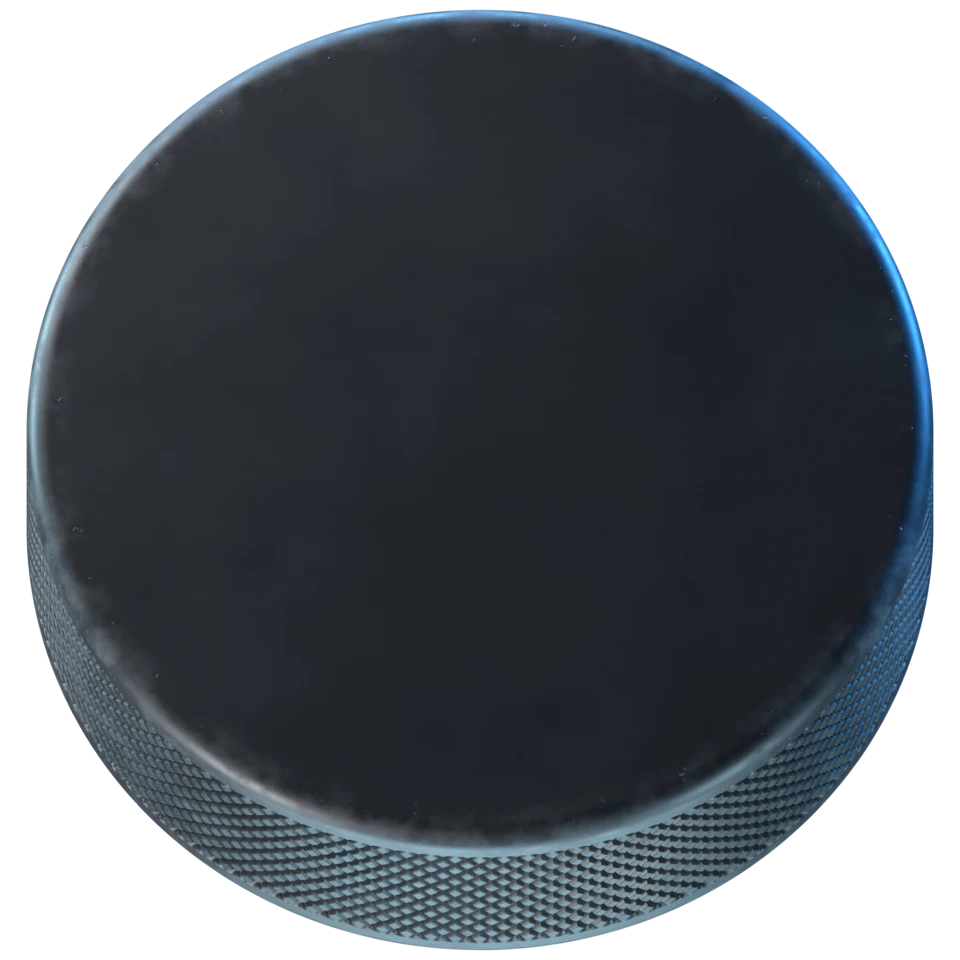
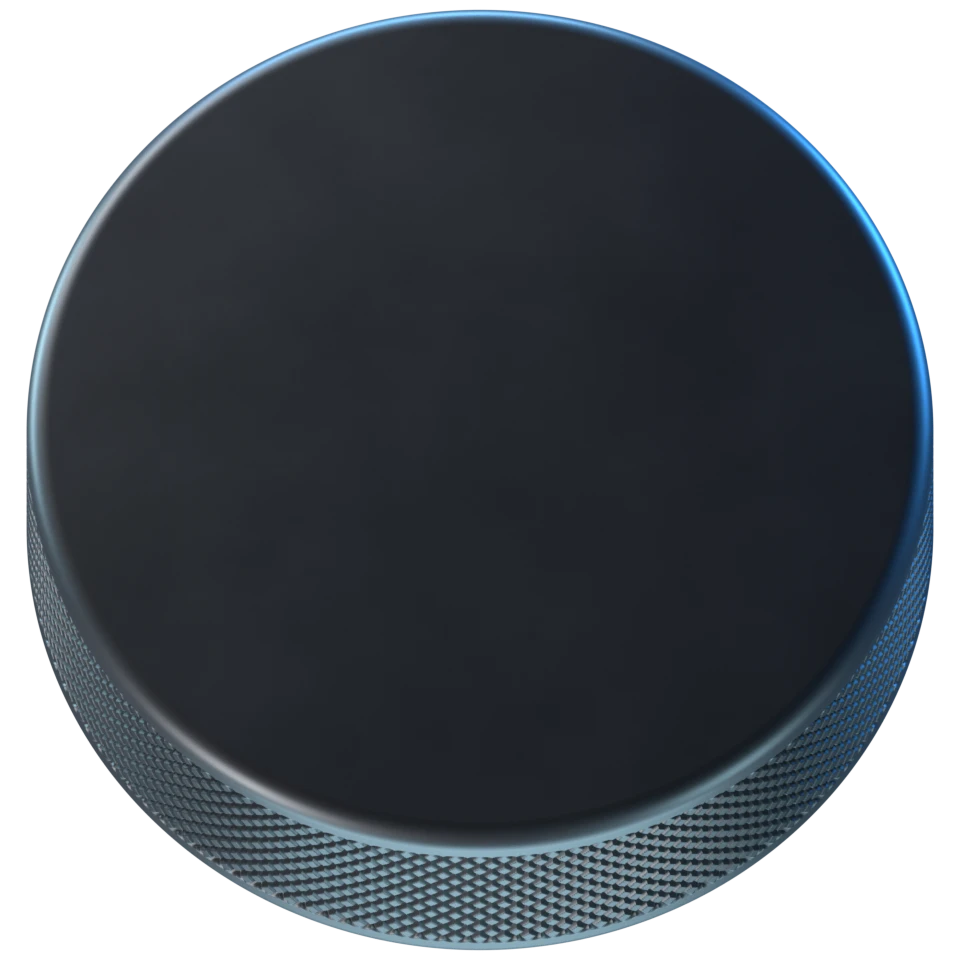
Шайба крутится целиком: бортик вращается вместе с верхом
Раньше вращалась только картинка с логотипом, а бортик просто ехал.
Теперь script.js перерисовывает корпус на холсте: рифление сдвигается
по кругу, поверх прокручиваются потёртости бортика (puck-side.webp),
при быстром вращении всё смазывается. Угол берётся у картинки с логотипом.
Потёртости убраны с неподвижного корпуса и со скруглённой кромки.

diff --git a/script.js b/script.js
@@ -20,21 +20,214 @@ nav.querySelectorAll('a').forEach((link) => {
 // При открытии сайта и при каждом нажатии на шайбу запускаем анимацию заново.
 const puckZone = document.querySelector('.puck-zone');
 const puck = document.getElementById('puck');
+let puckSide = null;                    // «художник», который вращает бортик (см. ниже)
 
 function launchPuck() {
   puckZone.classList.remove('is-waiting', 'is-flying');
   void puckZone.offsetWidth;            // «перезагружаем» анимацию, чтобы она сыграла ещё раз
   puckZone.classList.add('is-flying');
+  if (puckSide) puckSide.start();
 }
 
 if (puckZone && puck) {
-  // Шайба сложена из двух картинок. Ждём, пока обе загрузятся (но не дольше 2 секунд),
+  // Шайба сложена из нескольких картинок. Ждём, пока они загрузятся (но не дольше 2 секунд),
   // и только потом запускаем — иначе на медленном интернете шайба «въедет» невидимой.
   puckZone.classList.add('is-waiting');
   const images = Array.from(puck.querySelectorAll('img'));
   const loaded = images.map((img) => (img.decode ? img.decode().catch(() => {}) : Promise.resolve()));
   const tooLong = new Promise((resolve) => setTimeout(resolve, 2000));
-  Promise.race([Promise.all(loaded), tooLong]).then(launchPuck);
+  Promise.race([Promise.all(loaded), tooLong]).then(() => {
+    try { puckSide = setupPuckSide(puckZone, puck); } catch (e) { puckSide = null; }
+    launchPuck();
+  });
 
   puck.addEventListener('click', launchPuck);
+}
+
+// ===== Бортик шайбы тоже вращается =====
+// Корпус шайбы — неподвижная картинка: свет на ней уже «сфотографирован». Но когда шайба
+// крутится, бортик тоже должен ехать по кругу, иначе видно, что вращается только верх.
+// Поэтому корпус перерисовывается на холсте (canvas) много раз в секунду:
+//   1) рифление: бортик режется на узкие вертикальные полоски, и каждая берётся чуть «сбоку» —
+//      так ромбики едут по кругу, а свет остаётся на месте;
+//   2) потёртости: картинка images/puck-side.webp (бортик «в развёртке») прокручивается
+//      по бортику — по этим светлым ссадинам глаз и видит, что шайба вращается целиком.
+// Угол поворота берётся у картинки с логотипом, поэтому верх и бортик крутятся строго вместе.
+function setupPuckSide(zone, button) {
+  const canvas = zone.querySelector('.puck__side');
+  const body = zone.querySelector('.puck__body');
+  const face = zone.querySelector('.puck__marks');
+  const wearImg = zone.querySelector('.puck__side-src');
+  const ctx = canvas && canvas.getContext ? canvas.getContext('2d') : null;
+  if (!ctx || !body || !face) return null;
+
+  // Форма шайбы в долях её радиуса — те же числа, что в tools/make_puck.py
+  const THICKNESS = 2 / 3;              // толщина
+  const BEVEL = 0.05;                   // скругление кромки
+  const KNURLS = 116;                   // сколько ромбиков по окружности
+  const WEAR_STRENGTH = 0.9;            // насколько заметны потёртости (0 — не видны, 1 — яркие)
+
+  // Где на картинке лежит шайба — из тех же чисел, что и в style.css (--face-…)
+  const S = canvas.width;
+  const style = getComputedStyle(zone);
+  const num = (name) => parseFloat(style.getPropertyValue(name));
+  const squash = num('--face-squash');
+  const R = num('--face-size') / 100 * S / 2;            // радиус шайбы в пикселях холста
+  const cx = num('--face-left') / 100 * S + R;           // центр верхней грани
+  const cy = num('--face-top') / 100 * S + R;
+  if (!(R > 0) || !(squash > 0)) return null;
+  const lean = Math.sqrt(1 - squash * squash) * R;       // на сколько пикселей «вниз» уходит высота
+  const bandH = (THICKNESS - 2 * BEVEL) * lean;          // высота бортика на картинке
+  const below = BEVEL * R * 1.3 + 3;                     // запас вниз: нижнее скругление
+  const TURN = 2 * Math.PI;
+  const pitch = TURN / KNURLS;                           // угол одного ромбика
+  const EDGE = 84 * Math.PI / 180;                       // у самых краёв бортик не трогаем
+  const SRC_EDGE = 89 * Math.PI / 180;
+  // Точка бортика под углом phi (0 — прямо перед зрителем): её место на картинке
+  const xOf = (phi) => cx + R * Math.sin(phi);
+  const topOf = (phi) => cy + R * squash * Math.cos(phi) + BEVEL * lean;
+  const wrap = (v, period) => ((v % period) + period) % period;
+
+  // Вертикальные полоски: в середине шире, у краёв уже (там бортик сильнее изгибается)
+  const cols = [];
+  const xEnd = Math.floor(xOf(EDGE));
+  for (let x = Math.ceil(xOf(-EDGE)); x < xEnd;) {
+    const phi = Math.asin((x - cx) / R);
+    const w = Math.min(xEnd - x, Math.max(2, Math.round(8 * Math.cos(phi))));
+    const p1 = Math.asin((x + w - cx) / R);
+    cols.push({ x0: x, x1: x + w, p0: phi, p1: p1, y0: topOf(phi), y1: topOf(p1) });
+    x += w;
+  }
+
+  let wear = null;      // развёртка потёртостей, повторённая дважды — чтобы не думать о стыке
+  let ready = false;
+
+  function prepareWear() {
+    if (wear || !wearImg || !wearImg.naturalWidth) return;
+    ctx.globalCompositeOperation = 'color-dodge';        // режим «осветлить то, что под рисунком»
+    const supported = ctx.globalCompositeOperation === 'color-dodge';
+    ctx.globalCompositeOperation = 'source-over';
+    if (!supported) return;                              // очень старый браузер — просто без потёртостей
+    wear = document.createElement('canvas');
+    wear.width = wearImg.naturalWidth * 2;
+    wear.height = wearImg.naturalHeight;
+    const w = wear.getContext('2d');
+    w.drawImage(wearImg, 0, 0);
+    w.drawImage(wearImg, wearImg.naturalWidth, 0);
+  }
+
+  // Рисует корпус, повёрнутый на angle (в радианах). step — на сколько он повернулся
+  // с прошлого кадра: при быстром вращении рифление смазывается, как в жизни.
+  function draw(angle, step) {
+    if (!ready) return;
+    ctx.setTransform(1, 0, 0, 1, 0, 0);
+    ctx.globalCompositeOperation = 'source-over';
+    ctx.globalAlpha = 1;
+    ctx.clearRect(0, 0, S, S);
+    ctx.drawImage(body, 0, 0, S, S);
+
+    // 1) Рифление. Узор повторяется каждый ромбик, поэтому важен только сдвиг внутри ромбика.
+    const blurRange = Math.min(Math.abs(step), pitch);
+    const samples = blurRange > pitch / 8 ? 4 : 1;
+    for (let k = 0; k < samples; k++) {
+      const shift = wrap(angle - blurRange * k / samples, pitch);
+      if (shift < 1e-4 && k === 0) continue;             // сдвига нет — корпус уже нарисован как надо
+      ctx.globalAlpha = 1 / (k + 1);                     // 1, 1/2, 1/3… — в сумме получается среднее
+      for (let i = 0; i < cols.length; i++) {
+        const c = cols[i];
+        const s0 = Math.min(c.p0 + shift, SRC_EDGE);
+        const s1 = Math.min(c.p1 + shift, SRC_EDGE);
+        const sx = xOf(s0);
+        const sw = xOf(s1) - sx;
+        if (sw < 0.25) continue;
+        const sy0 = topOf(s0);
+        const sy1 = topOf(s1);
+        const a = (c.x1 - c.x0) / sw;
+        const b = ((c.y1 - sy1) - (c.y0 - sy0)) / sw;
+        ctx.setTransform(a, b, 0, 1, c.x0 - a * sx, (c.y0 - sy0) - b * sx);
+        const top = Math.min(sy0, sy1) - 1;
+        const h = Math.abs(sy1 - sy0) + bandH + below + 2;
+        ctx.drawImage(body, sx, top, sw, h, sx, top, sw, h);
+      }
+    }
+
+    // 2) Потёртости: едут по бортику вместе с ним. При быстром вращении рисуем их несколько раз
+    //    бледнее и со сдвигом — получается «смаз», как у настоящего быстрого предмета.
+    if (wear) {
+      const tw = wear.width / 2;
+      const th = wear.height;
+      const perRad = tw / TURN;
+      const passes = Math.max(1, Math.min(6, Math.ceil(Math.abs(step) / 0.012)));
+      ctx.globalAlpha = WEAR_STRENGTH / passes;
+      ctx.globalCompositeOperation = 'color-dodge';
+      for (let k = 0; k < passes; k++) {
+        const turned = angle - step * k / passes;
+        for (let i = 0; i < cols.length; i++) {
+          const c = cols[i];
+          const sx = wrap(c.p0 + turned, TURN) * perRad;
+          const sw = (c.p1 - c.p0) * perRad;
+          const a = (c.x1 - c.x0) / sw;
+          const b = (c.y1 - c.y0) / sw;
+          ctx.setTransform(a, b, 0, bandH / th, c.x0 - a * sx, c.y0 - b * sx);
+          ctx.drawImage(wear, sx, 0, sw, th, sx, 0, sw, th);
+        }
+      }
+      ctx.globalCompositeOperation = 'source-over';
+      ctx.globalAlpha = 1;
+    }
+    ctx.setTransform(1, 0, 0, 1, 0, 0);
+  }
+
+  // На какой угол сейчас повёрнута картинка с логотипом
+  function angleNow() {
+    const m = getComputedStyle(face).transform.match(/^matrix\(([^,]+),([^,]+)/);
+    return m ? Math.atan2(parseFloat(m[2]), parseFloat(m[1])) : 0;
+  }
+
+  let frame = 0;
+  let last = 0;
+  let stopTimer = 0;
+
+  function tick() {
+    const angle = angleNow();
+    let step = angle - last;
+    if (step > Math.PI) step -= TURN;
+    if (step < -Math.PI) step += TURN;
+    last = angle;
+    draw(angle, step);
+    frame = requestAnimationFrame(tick);
+  }
+  function stop() {
+    cancelAnimationFrame(frame);
+    clearTimeout(stopTimer);
+    frame = 0;
+    draw(0, 0);                                          // шайба остановилась — рисуем её ровно
+  }
+  function start() {
+    cancelAnimationFrame(frame);
+    clearTimeout(stopTimer);
+    last = angleNow();
+    frame = requestAnimationFrame(tick);
+    stopTimer = setTimeout(stop, 6000);                  // страховка, если анимации отключены
+  }
+  face.addEventListener('animationend', (e) => { if (e.animationName === 'puck-spin') stop(); });
+
+  function init() {
+    if (ready || !body.naturalWidth) return;
+    ready = true;
+    prepareWear();
+    try {
+      draw(0, 0);
+      button.classList.add('has-side');                  // холст готов — прячем обычную картинку корпуса
+    } catch (e) {
+      ready = false;                                     // не получилось — остаётся обычная картинка
+    }
+  }
+  init();
+  if (!ready) body.addEventListener('load', init, { once: true });
+  if (wearImg && !wearImg.naturalWidth) {
+    wearImg.addEventListener('load', () => { prepareWear(); if (!frame) draw(0, 0); }, { once: true });
+  }
+
+  return { start: start, draw: draw };
 }

diff --git a/style.css b/style.css
@@ -147,12 +147,13 @@ button { font: inherit; color: inherit; background: none; border: 0; cursor: poi
   height: var(--puck-size);     /* явная высота — для телефонов, где нет aspect-ratio */
 }
 
-/* Шайба — это настоящий 3D-рендер из Blender (скрипт tools/make_puck.py), сложенный из двух
+/* Шайба — это настоящий 3D-рендер из Blender (скрипт tools/make_puck.py), сложенный из
    ГОТОВЫХ картинок с прозрачным фоном:
-     images/puck-body.webp — корпус: резина, рифлёный бортик, свет;
-     images/puck-face.webp — логотип и царапины; лежит сверху и вращается, когда шайба едет.
-   Так шайба крутится вокруг своей оси по-настоящему: логотип поворачивается, а бортик
-   и свет остаются на месте.
+     images/puck-body.webp — корпус: чистая резина, рифлёный бортик, свет;
+     images/puck-face.webp — логотип, царапины, потёртая кромка; лежит сверху и вращается;
+     images/puck-side.webp — потёртости бортика «в развёртке»; script.js прокручивает их по бортику.
+   Так шайба крутится вокруг своей оси по-настоящему: всё, что на ней «нарисовано», едет
+   по кругу, а свет остаётся на месте.
    Браузеру ничего не нужно обрезать, поэтому шайба выглядит одинаково везде, включая iPhone
    и встроенный браузер Telegram (обрезка кодом там при анимации показывала квадрат). */
 .puck-slide {                   /* эта «тележка» едет по льду: в ней шайба и её тень */
@@ -192,6 +193,19 @@ button { font: inherit; color: inherit; background: none; border: 0; cursor: poi
   -webkit-user-select: none;
   -webkit-touch-callout: none;
 }
+/* Холст поверх картинки корпуса. На нём script.js перерисовывает корпус так, чтобы бортик
+   тоже вращался (рифление и потёртости едут по кругу). Когда холст готов, обычная картинка
+   корпуса прячется — иначе по краям она просвечивала бы из-под холста. */
+.puck__side {
+  position: absolute;
+  left: 0;
+  top: 0;
+  width: 100%;
+  height: 100%;
+  pointer-events: none;
+}
+.puck.has-side .puck__body { visibility: hidden; }
+
 /* Верхняя грань. Картинка с логотипом — ровный круг; шайба наклонена, поэтому сжимаем
    круг в овал (--face-squash). Внутри овала картинка вращается (см. puck-spin ниже). */
 .puck__face {

diff --git a/index.html b/index.html
@@ -51,16 +51,19 @@
         </div>
 
         <!-- Шайба с логотипом. Въезжает по льду при открытии сайта и при нажатии.
-             Сложена из двух картинок: корпус + верхняя грань с логотипом (она вращается). -->
+             Сложена из слоёв: корпус, холст с вращающимся бортиком и верхняя грань с логотипом. -->
         <div class="puck-zone">
           <span class="puck-trail" aria-hidden="true"><i></i></span>
           <div class="puck-slide">
             <span class="puck-shadow" aria-hidden="true"></span>
             <button class="puck" id="puck" type="button" aria-label="Запустить шайбу ещё раз">
               <span class="puck__layers">
-                <img src="images/puck-body.webp?v=20261116-0002" alt="" class="puck__body" width="960" height="960">
+                <img src="images/puck-body.webp?v=20261116-0004" alt="" class="puck__body" width="960" height="960">
+                <!-- холст: на нём script.js рисует корпус с «провёрнутым» бортиком и потёртостями -->
+                <canvas class="puck__side" width="960" height="960" aria-hidden="true"></canvas>
+                <img src="images/puck-side.webp?v=20261116-0004" alt="" class="puck__side-src" hidden>
                 <span class="puck__face">
-                  <img src="images/puck-face.webp?v=20261116-0002" alt="КЛЮШКИ RUSSIA" class="puck__marks" width="960" height="960">
+                  <img src="images/puck-face.webp?v=20261116-0004" alt="КЛЮШКИ RUSSIA" class="puck__marks" width="960" height="960">
                 </span>
               </span>
             </button>

diff --git a/CLAUDE.md b/CLAUDE.md
@@ -69,8 +69,8 @@
   `catalog.html?cat=sticks&type=restored&repair=blade`; на главной адрес не меняется.
 - `product.js` — страница товара: галерея (стрелки, миниатюры, свайп, клавиши ← →,
   просмотр на весь экран), характеристики, блок «О ремонте», описание, доставка.
-- `script.js` — общий для всех страниц (мобильное меню; запуск шайбы — только на главной:
-  ждёт загрузки её картинок и включает анимацию; повторный запуск — по нажатию на шайбу).
+- `script.js` — общий для всех страниц (мобильное меню; шайба — только на главной: ждёт загрузки
+  её картинок, включает анимацию и вращает бортик на холсте; повторный запуск — по нажатию).
 - Заказ — через Telegram / звонок (без онлайн-оплаты и корзины). Кнопка «Заказать»
   копирует готовый текст заказа и открывает Telegram.
 
@@ -91,26 +91,36 @@
 - НЕ править файлы проекта через PowerShell `Get-Content`/`Set-Content` — Windows PowerShell 5.1
   читает UTF-8 без BOM как ANSI и портит кириллицу. Для правок — редактор или `py`.
   `.ps1`-скрипты с кириллицей сохранять в UTF-8 С BOM, иначе PowerShell 5.1 их не прочитает.
-- Шайба на главной — 3D-рендер из Blender, сложенный из ДВУХ готовых картинок с прозрачным фоном:
-  `images/puck-body.webp` — корпус (резина, рифлёный бортик, скруглённая кромка, свет, вид под
-  наклоном 22° лицом к зрителю) и `images/puck-face.webp` — логотип и царапины, лежит сверху.
+- Шайба на главной — 3D-рендер из Blender, сложенный из готовых картинок с прозрачным фоном:
+  `images/puck-body.webp` — корпус: чистая резина, рифлёный бортик, скруглённая кромка, свет
+  (вид под наклоном 22° лицом к зрителю); `images/puck-face.webp` — логотип, царапины и потёртости
+  у края грани, лежит сверху; `images/puck-side.webp` — потёртости бортика «в развёртке» (360°).
   Яркого блика на грани нет — владелец просил убрать как ненатуральный.
 - Анимация шайбы («как по настоящему льду», просьба владельца): шайба выезжает из-за правого края,
-  скользит по прямой и тормозит с равномерным замедлением (трение), при этом верхняя картинка
-  вращается — шайба крутится вокруг своей оси, а бортик и свет остаются на месте. Тень прижата
-  к низу шайбы и едет вместе с ней, на льду остаётся тающий след. Всё в `style.css`
-  (блок «Шайба»: `.puck-slide`, `.puck__face`, `.puck-trail`), настройки — переменные
+  скользит по прямой и тормозит с равномерным замедлением (трение) и при этом крутится вокруг
+  своей оси ЦЕЛИКОМ — и верх, и бортик (владелец заметил, когда крутился только верх).
+  Принцип: свет «сфотографирован» и стоит на месте, а всё нарисованное на шайбе едет по кругу:
+  • верх — картинка `puck-face.webp` вращается средствами CSS (`.puck__face` сжимает круг в овал);
+  • бортик — `script.js` (функция `setupPuckSide`) перерисовывает корпус на холсте
+    `<canvas class="puck__side">`: рифление сдвигается по кругу узкими вертикальными полосками,
+    поверх прокручиваются потёртости из `puck-side.webp`; при быстром вращении всё смазывается.
+    Угол берётся у картинки с логотипом, поэтому верх и бортик крутятся строго вместе.
+  Тень прижата к низу шайбы и едет вместе с ней, на льду остаётся тающий след. Скольжение, тень
+  и след — в `style.css` (блок «Шайба»: `.puck-slide`, `.puck-trail`), настройки — переменные
   `--slide-x/y`, `--slide-time`, `--spin`.
   Шайба останавливается и перестаёт крутиться ОДНОВРЕМЕННО (владелец попросил: докручивание
   после остановки убрать) — поэтому у скольжения и вращения одно общее время `--slide-time`.
   НЕ вращать шайбу целиком (rotate всей картинки) — так она выглядит «ненастоящей».
+  НЕ рисовать потёртости на неподвижном корпусе и на скруглённой кромке: первые «стоят на месте»
+  при вращении, вторые возят за собой чужой свет и дают тёмные пятна.
 - Пересоздать картинки шайбы (например, после смены логотипа) — Blender откроется с окном
-  и сам сохранит оба файла:
+  и сам сохранит все три файла:
   `"C:\Program Files (x86)\Steam\steamapps\common\Blender\blender.exe" --python tools\make_puck.py`
   Наклон, размер, количество царапин — в блоке «НАСТРОЙКИ» в начале `tools/make_puck.py`.
   Если менять наклон (TILT) — скрипт напечатает четыре числа `--face-…`, их нужно вписать
-  в `style.css` (блок `.puck-zone`), иначе логотип ляжет на корпус криво.
-  Формат WebP, а не PNG: тот же вид, но обе картинки вместе ~230 КБ вместо ~1,3 МБ.
+  в `style.css` (блок `.puck-zone`), иначе логотип ляжет на корпус криво. Толщина, скругление
+  и число ромбиков (H, BEVEL, KNURL_COUNT) продублированы в `script.js` — менять в обоих местах.
+  Формат WebP, а не PNG: тот же вид, но все картинки вместе ~220 КБ вместо ~1,5 МБ.
   Не обрезать шайбу кодом (clip-path / overflow + border-radius / mix-blend-mode) —
   в Safari на iPhone при анимации вылезал квадрат.
 
